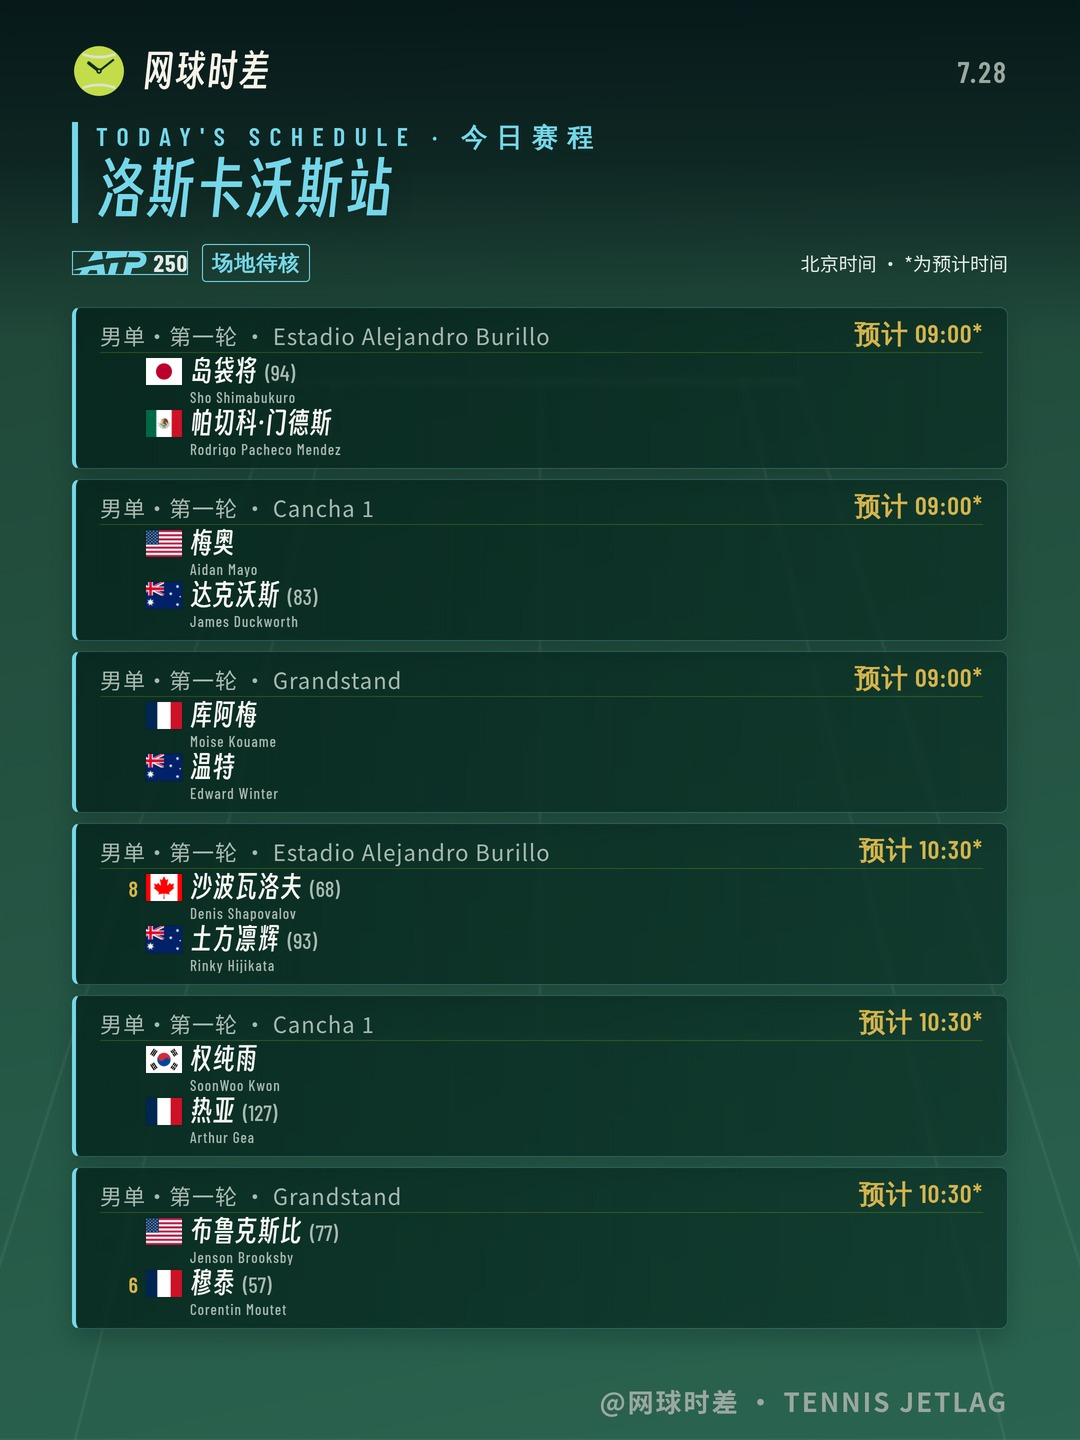
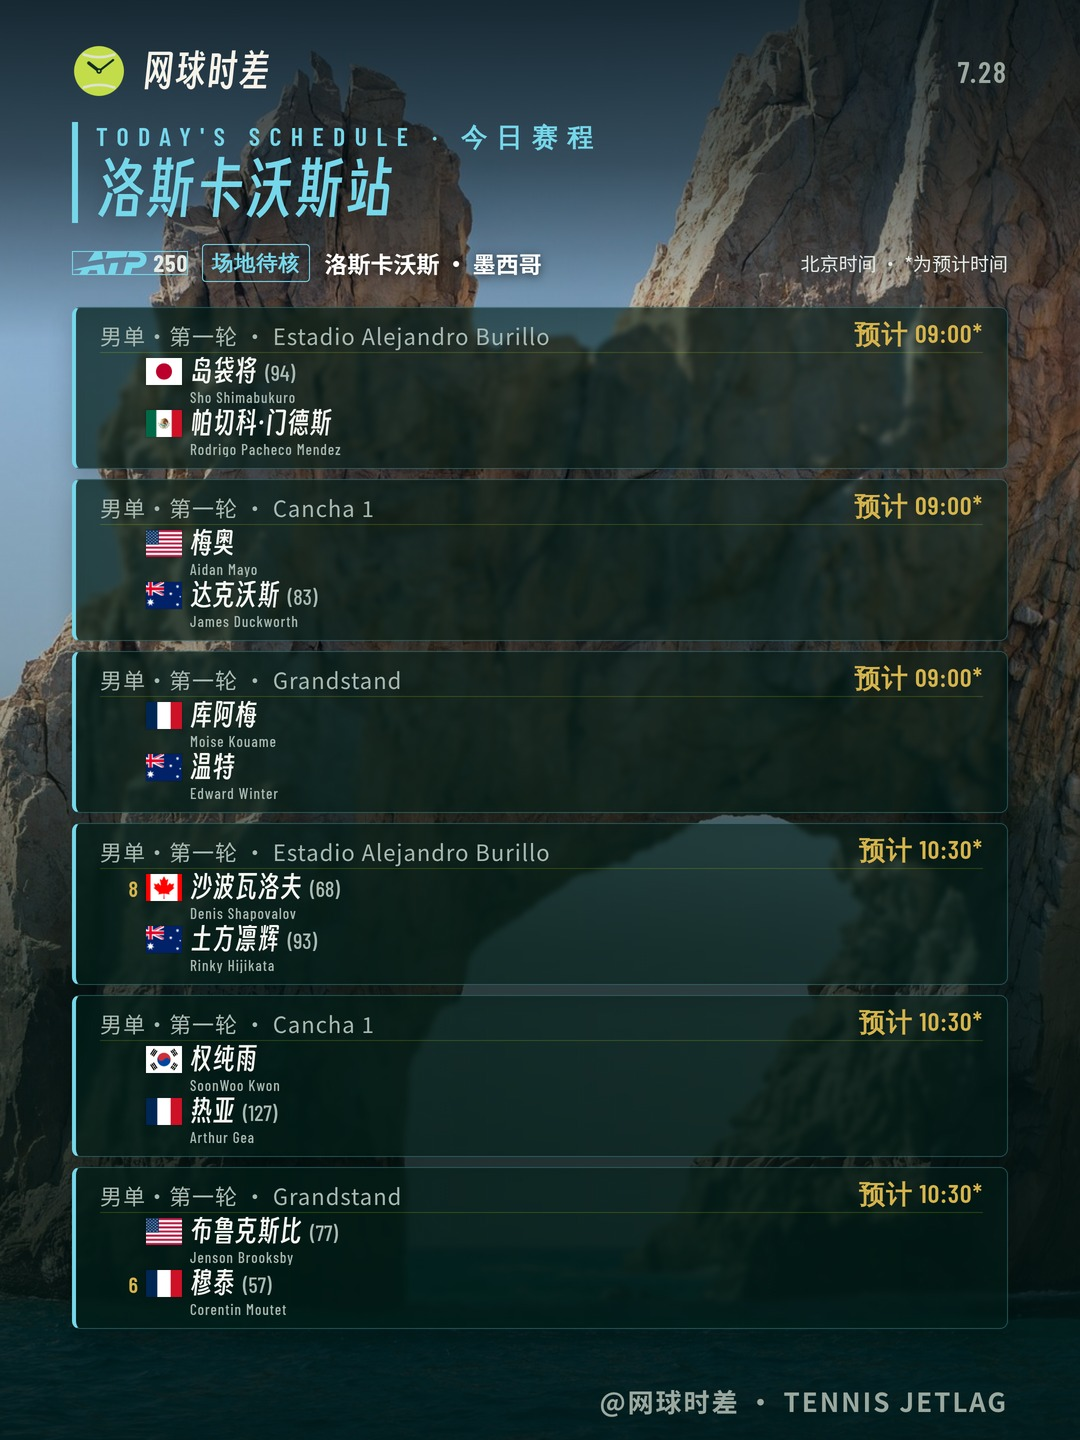
赛程卡：孟菲斯换成 WTA 官方球场航拍，洛斯卡沃斯补地标，标题收进 20 字
**孟菲斯**：Leftwich Tennis Center 在 Commons 上是真空（两条网球查询 0 命中，
同批其他查询各 25 条，不是限流）。多渠道扫下来：
- 赛事官网票务页那三张 Stadium 图**全是效果图不是实拍**——横幅上的字是糊的
  （TOPNO / MEMPH / TENOS GEHPLIS / CSUNDTON），观众是重复贴图。带假文字的
  渲染图比一张真实城市照更糟，否掉。
- Tennis Memphis 站上唯一的实拍是少儿夏令营，画面里全是可辨识未成年人，否掉。
- Openverse 两组查询都是 0。
- **WTA 官方图库命中**：`Marked_Leftwich-Tennis-Center_Courts.jpg`，黄昏航拍，
  蓝色球场亮着灯、远处是孟菲斯天际线，文件名自己把场馆写死。
  接口对无参请求返 400 并直接说明「At least one of width or height must be
  specified」——加 ?width= 即可，别只看状态码就判定拿不到。

**洛斯卡沃斯**：球场（Delmar 国际学校）五组查询词全空，官网是 noindex 空壳且
每个路径都返回 200 + text/html（soft-404）。按既定口径退回典型地标：埃尔阿尔科
海蚀拱（Diego Delso，CC BY-SA 4.0，8621×5747）。

**标题收进 20 字**：小红书标题超过 20 字左右会被截断，读者看到的是半句话。
按信息价值从低到高逐级砍——球场 → 对手排名 → 轮次 → 时段，**两个人名永远
留着**，那是读者点进来的理由。
`7.28 今日赛程 | 郑钦文首轮对上世界第 28 的伊埃拉，凌晨1点中央球场`
→ `7.28 今日赛程 | 郑钦文凌晨1点战伊埃拉`（18.5 / 20）

验证：全量 pytest 864 passed（新增 4 条）；每张候选图都 Read 打开看过再取舍。

Claude-Session: https://claude.ai/code/session_0115cwGdtMxZJrKvZZSmstvY

diff --git a/output/2026-07-28/schedule/push.html b/output/2026-07-28/schedule/push.html
@@ -1,7 +1,7 @@
 <div style="background-color:#f6f7f4;color:#17251f;padding:12px 10px;font-family:-apple-system,BlinkMacSystemFont,Segoe UI,sans-serif;">
 <div style="max-width:680px;margin:0 auto;background-color:#ffffff;border-top:5px solid #0b3d2e;padding:18px 16px 22px;">
 <div style="display:inline-block;background-color:#e7f5ea;color:#087747;font-size:12px;font-weight:bold;padding:4px 8px;border-radius:4px;">今日赛程 · 7.28</div>
-<div style="font-size:22px;line-height:1.38;font-weight:800;color:#102d23;margin:10px 0 12px;">7.28 今日赛程 | 郑钦文首轮对上世界第 28 的伊埃拉，凌晨1点中央球场</div>
+<div style="font-size:22px;line-height:1.38;font-weight:800;color:#102d23;margin:10px 0 12px;">7.28 今日赛程 | 郑钦文凌晨1点战伊埃拉</div>
 <img src="https://cdn.jsdelivr.net/gh/robertyang87/tennislive@main/output/2026-07-28/schedule/cards/card_schedule01.jpg" data-src="https://cdn.jsdelivr.net/gh/robertyang87/tennislive@main/output/2026-07-28/schedule/cards/card_schedule01.jpg" width="100%" referrerpolicy="no-referrer" style="width:100%;border-radius:6px;margin:0 0 10px;display:block;" />
 <img src="https://cdn.jsdelivr.net/gh/robertyang87/tennislive@main/output/2026-07-28/schedule/cards/card_schedule02.jpg" data-src="https://cdn.jsdelivr.net/gh/robertyang87/tennislive@main/output/2026-07-28/schedule/cards/card_schedule02.jpg" width="100%" referrerpolicy="no-referrer" style="width:100%;border-radius:6px;margin:0 0 10px;display:block;" />
 <img src="https://cdn.jsdelivr.net/gh/robertyang87/tennislive@main/output/2026-07-28/schedule/cards/card_schedule03.jpg" data-src="https://cdn.jsdelivr.net/gh/robertyang87/tennislive@main/output/2026-07-28/schedule/cards/card_schedule03.jpg" width="100%" referrerpolicy="no-referrer" style="width:100%;border-radius:6px;margin:0 0 10px;display:block;" />

diff --git a/output/2026-07-28/schedule/copy.html b/output/2026-07-28/schedule/copy.html
@@ -42,7 +42,7 @@
     <p class="sub">标题和正文已分开，可直接粘贴到发布页。</p>
     <section>
       <div class="label"><span>标题</span><button type="button" data-copy="title">复制标题</button></div>
-      <textarea id="title" readonly>7.28 今日赛程 | 郑钦文首轮对上世界第 28 的伊埃拉，凌晨1点中央球场</textarea>
+      <textarea id="title" readonly>7.28 今日赛程 | 郑钦文凌晨1点战伊埃拉</textarea>
     </section>
     <section>
       <div class="label"><span>正文</span><button type="button" data-copy="body">复制正文</button></div>

diff --git a/src/tennislive/render/schedule_post.py b/src/tennislive/render/schedule_post.py
@@ -84,29 +84,60 @@ def _clock_zh(m: Match) -> str:
     return period + clock
 
 
-def headline_hook(m: Match, time_text: str = "") -> str:
-    """标题里那半句看点。
+# 小红书标题超过 20 字左右就会被截断，读者看到的是半句话。这个预算算的是
+# 整条标题（含「7.28 今日赛程 | 」那截前缀），西文按半个汉字宽计。
+TITLE_MAX = 20
 
-    只用数据能自证的四样：谁、第几轮、对手排名、几点在哪块场。不写"生死战"
+
+def _width(text: str) -> float:
+    """汉字算 1，西文/数字/空格算 0.5——和标题被截断的实际观感对得上。"""
+    return sum(1.0 if ord(ch) > 0x2E80 else 0.5 for ch in text)
+
+
+def headline_hook(m: Match, time_text: str = "", budget: float | None = None) -> str:
+    """标题里那半句看点，按 ``budget`` 逐级砍到放得下。
+
+    只用数据能自证的东西：谁、第几轮、对手排名、几点在哪块场。不写"生死战"
     "复仇"这类站不住的形容——一句煽得起来但站不住的话，比一句平淡的真话糟
-    得多（见 CLAUDE.md）。对手排名本身就是最硬的那个"引爆点"：
-    「对上世界第 28」比任何形容词都具体。
+    得多（见 CLAUDE.md）。对手排名本身就是最硬的"引爆点"：「世界第 28」比
+    任何形容词都具体。
+
+    砍的顺序按信息价值从低到高：球场 → 对手排名 → 轮次 → 时段。**中国球员和
+    对手的名字永远留着**，那是读者点进来的理由，砍掉就什么都不剩了。
     """
+    limit = TITLE_MAX if budget is None else budget
     cn = _chinese_side(m)
-    if cn:
-        opponent = _opponent_of(m, cn)
-        rank = next(
-            (p.rank for p in m.home + m.away
-             if p.rank and not is_chinese_player(p)), None
-        )
-        who = f"世界第 {rank} 的{opponent}" if rank and opponent else opponent
-        core = f"{cn}{_short_round(m)}对上{who}" if who else f"{cn}{_short_round(m)}"
+    opponent = _opponent_of(m, cn) if cn else ""
+    rank = next(
+        (p.rank for p in m.home + m.away
+         if p.rank and not is_chinese_player(p)), None
+    ) if cn else None
+    clock, court, rnd = _clock_zh(m), _court_zh(m), _short_round(m)
+
+    if not cn:
+        candidates = [
+            f"{rnd}{_versus(m)}，{clock}{court}",
+            f"{rnd}{_versus(m)}，{clock}",
+            f"{_versus(m)}",
+        ]
     else:
-        core = f"{_short_round(m)}{_versus(m)}"
-    tail = [t for t in (_clock_zh(m), _court_zh(m)) if t]
-    if not tail:
-        tail = [time_text.replace("*", "").strip()] if time_text else []
-    return f"{core}，{''.join(tail)}" if tail else core
+        candidates = [
+            f"{cn}{rnd}对上世界第 {rank} 的{opponent}，{clock}{court}",
+            f"{cn}{rnd}对上世界第 {rank} 的{opponent}，{clock}",
+            f"{cn}{rnd}战世界第 {rank} 的{opponent}",
+            f"{cn}{rnd}战{opponent}，{clock}",
+            f"{cn}{clock}战{opponent}",
+            f"{cn}战{opponent}",
+        ]
+    # 只有排名/时段/场地缺失时才会留下空档，顺手清掉
+    cleaned = [
+        c.replace("世界第 None 的", "").replace("，，", "，").strip("，·")
+        for c in candidates
+    ]
+    for text in cleaned:
+        if _width(text) <= limit:
+            return text
+    return cleaned[-1]
 
 
 def pick_lead(matches: Sequence[Match]) -> Match | None:
@@ -139,11 +170,13 @@ def _start_key(m: Match) -> float:
 
 
 def post_title(day, lead: Match | None, time_text: str = "") -> str:
-    """`7.28 今日赛程 | <看点>`。没有可写的重点场次时只留前半截。"""
+    """`7.28 今日赛程 | <看点>`，整条控制在 TITLE_MAX 宽度内。"""
     stem = f"{day.month}.{day.day} 今日赛程"
     if lead is None:
         return stem
-    return f"{stem} | {headline_hook(lead, time_text)}"
+    prefix = f"{stem} | "
+    hook = headline_hook(lead, time_text, budget=TITLE_MAX - _width(prefix))
+    return prefix + hook
 
 
 def _event_heading(group) -> str:

diff --git a/tools/fetch_venues.py b/tools/fetch_venues.py
@@ -58,12 +58,18 @@ VENUES = [
      "File:Karatsev–Tiafoe in stadium at the 2023 DC Open 01.jpg", None),
     # 孟菲斯（2026 年新设的 WTA250，在 Leftwich Tennis Center）：球场本身在
     # Commons 上是真空——"Leftwich Tennis Center" 与 "Memphis Tennis Center"
-    # 两条查询都是 0 命中，而同一批其他查询各返回 25 条，不是限流。
-    # 退回城市地标。首选是德索托大桥（那个 M 形拱是孟菲斯最好认的东西），但
-    # 大桥的全部候选、全部缩略图宽度都被 upload.wikimedia.org 持续 429 挡住，
-    # 比尔街同样。先用能取到的夜景天际线，之后可以用本脚本换成大桥。
-    ("memphis-downtown-night.jpg",
-     "File:Memphis Skyline at Night January 2015.jpg", None),
+    # 两条查询都是 0 命中，而同一批其他查询各返回 25 条，不是限流。最后是在
+    # WTA 官方图库里找到的，见 OFFICIAL_VENUES。
+    #
+    # 中途走过两条弯路，都留在这儿免得再走一遍：城市夜景天际线（对题但不是
+    # 球场）；赛事官网票务页那三张 Stadium 图**全是效果图不是实拍**——横幅上
+    # 的字是糊的（TOPNO / MEMPH / TENOS GEHPLIS），观众是重复贴图。带假文字
+    # 的渲染图比一张真实城市照更糟。
+    ("memphis-leftwich-tennis-center.jpg", None, None),
+    # 洛斯卡沃斯 ATP250：球场（Delmar 国际学校）Commons 上没有，用地标
+    # 埃尔阿尔科海蚀拱。
+    ("los-cabos-el-arco.jpg",
+     "File:El Arco, Cabo San Lucas, M\u00e9xico, 2024-12-22, DD 03.jpg", None),
     # 加拿大站：原来钉的 File:RogersCup2011-2.jpg 名字里带赛事，画面却是场外
     # 的赞助商帐篷、排队人群和旗杆——不是球场也不是地标。整页拿它当底的时候
     # 一眼就看出来了。换成主球场（Sobeys Stadium / 旧称 Rexall Centre）的中央
@@ -106,6 +112,14 @@ VENUES = [
 # 授权不做检索闸门（见 CLAUDE.md）：来源 URL 全程记录，许可名缺失就写
 # unverified，发布前的权利判断由人工检验环节负责。
 OFFICIAL_VENUES = {
+    "memphis-leftwich-tennis-center.jpg": {
+        "title": "Leftwich Tennis Center \u00b7 Courts\uff08WTA \u5b98\u65b9\u56fe\u5e93\uff09",
+        "license": "unverified \u00b7 \u8d5b\u4e8b\u5b98\u65b9\u5a92\u4f53",
+        "artist": "WTA / Memphis Classic",
+        "page": "https://photoresources.wtatennis.com/photo-resources/2026/03/02/"
+                "b47c47ce-33d6-4eb5-bc1a-a0e9bdd64ee6/"
+                "Marked_Leftwich-Tennis-Center_Courts.jpg",
+    },
     "estoril-centre-court.jpg": {
         "title": "Millennium Estoril Open · estadio2",
         "license": "unverified · 赛事官方媒体",

diff --git a/tests/test_schedule_cards.py b/tests/test_schedule_cards.py
@@ -316,3 +316,65 @@ def test_page_number_appears_only_when_there_is_more_than_one_page():
     assert "· 1/1" not in single
     paged = schedule_body([sched(match_id="a")], "7.28", page=1, total=2)
     assert "· 1/2" in paged
+
+
+# ---------- 推送文案 ----------
+
+
+def _cn_lead():
+    m = sched(
+        match_id="z", tour=Tour.WTA, discipline="Women's Singles",
+        start=datetime(2026, 7, 28, 17, 0, tzinfo=UTC), status_text="single-source",
+        home="Alexandra Eala", home_country="PHI",
+        away="Zheng Qinwen", away_country="CHN",
+    )
+    m.home[0].rank, m.home[0].seed = 28, None
+    m.away[0].rank, m.away[0].seed = 123, None
+    m.court = "Stadium"
+    return m
+
+
+def test_title_fits_the_xiaohongshu_budget():
+    """标题超过 20 字左右会被小红书截断，读者看到的是半句话。"""
+    from datetime import date
+
+    from tennislive.render.schedule_post import TITLE_MAX, _width, post_title
+
+    title = post_title(date(2026, 7, 28), _cn_lead())
+    assert _width(title) <= TITLE_MAX, title
+    assert title.startswith("7.28 今日赛程 | ")
+
+
+def test_title_never_drops_the_two_names():
+    """砍长度时球场、排名、轮次都能丢，两个人名不能——那是读者点进来的理由。"""
+    from datetime import date
+
+    from tennislive.render.schedule_post import post_title
+
+    title = post_title(date(2026, 7, 28), _cn_lead())
+    assert "郑钦文" in title and "伊埃拉" in title
+
+
+def test_lead_prefers_the_chinese_match_with_the_stronger_opponent():
+    """同为中国单打时看对手排名——对手越强，这一问越有分量。"""
+    from tennislive.render.schedule_post import pick_lead
+
+    strong = _cn_lead()
+    weak = sched(
+        match_id="w", tour=Tour.WTA, discipline="Women's Singles",
+        home="Wang Xinyu", home_country="CHN", away="Julieta Pareja",
+    )
+    weak.home[0].rank, weak.home[0].seed = 42, None
+    weak.away[0].rank, weak.away[0].seed = None, None
+    assert pick_lead([weak, strong]) is strong
+
+
+def test_body_only_lists_matches_that_are_on_the_cards():
+    """正文和图对不上，读者第一眼就发现。"""
+    from tennislive.render.schedule_post import post_body
+
+    a, b = sched(match_id="a"), sched(match_id="b")
+    display = schedule_time_display([a, b])
+    body = post_body([a], display)
+    assert "Alpha Player" in body or "阿尔法" in body
+    assert body.count("·") >= 1
